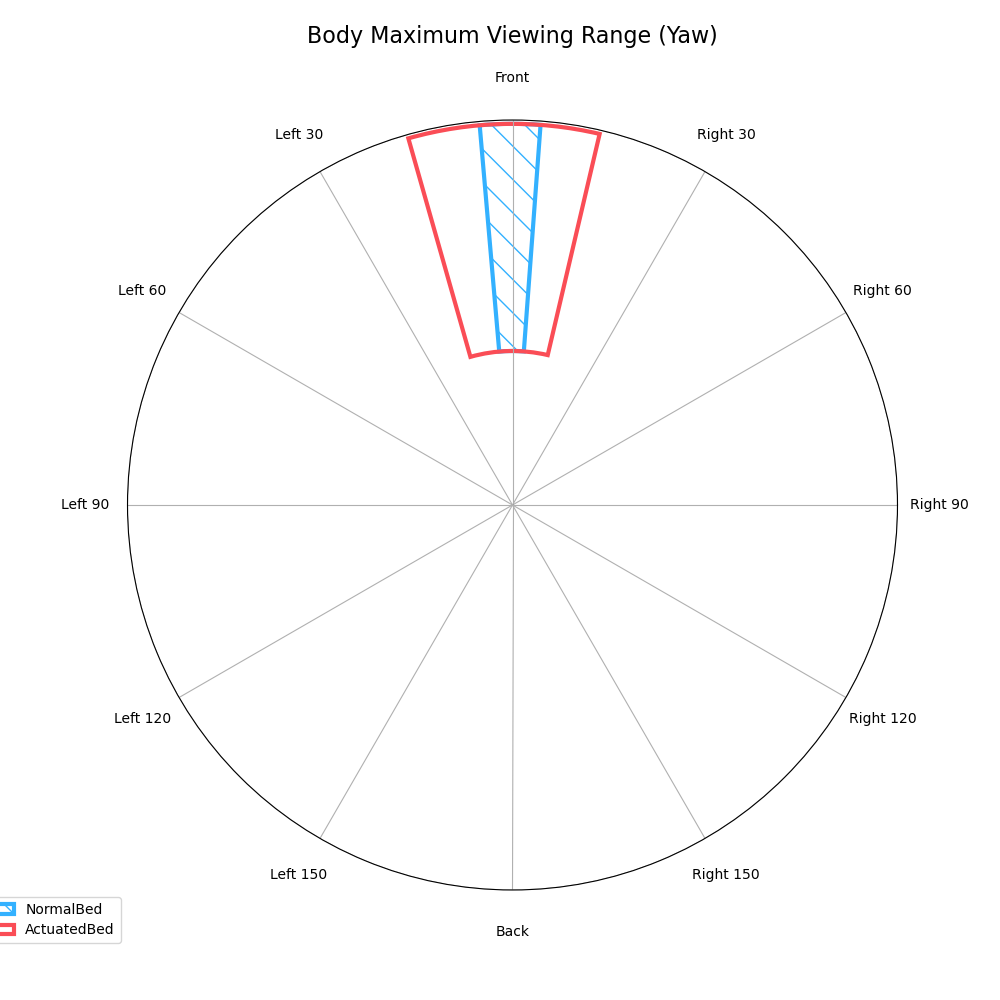
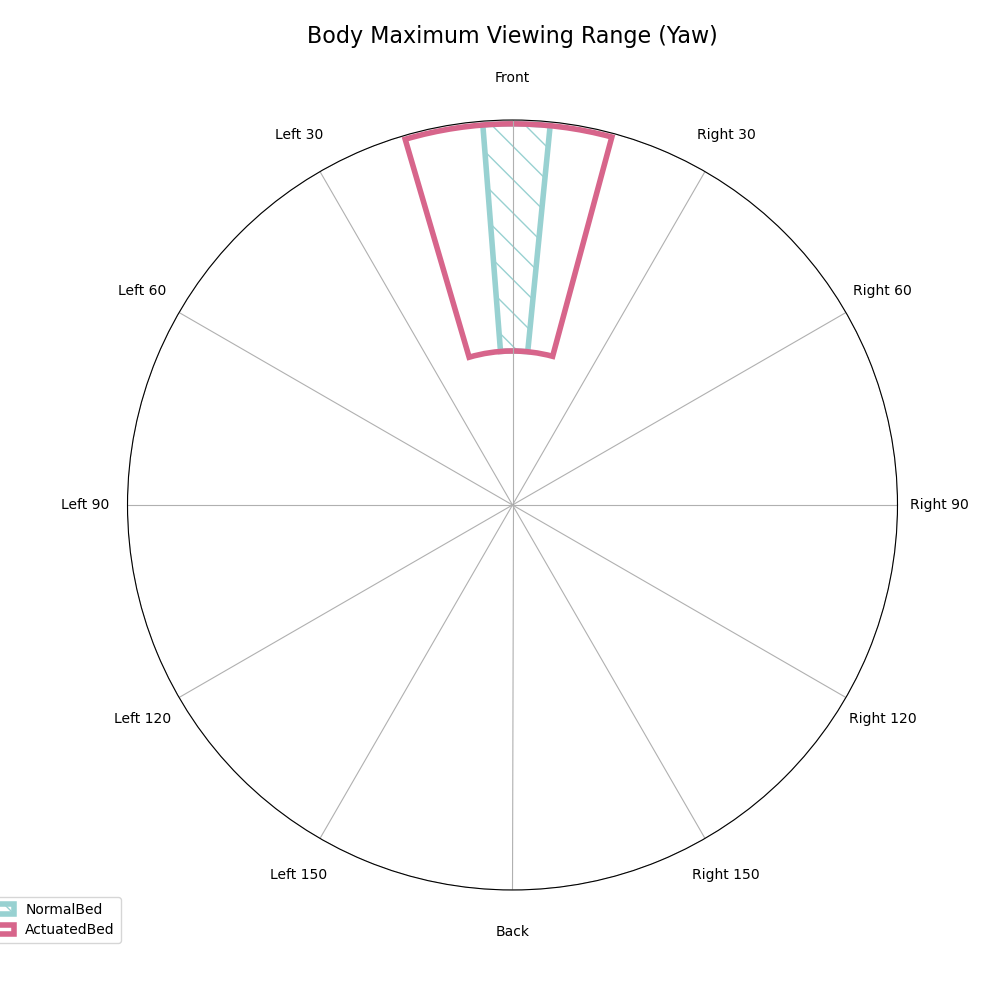
N=16, change color

Changed region(s): [[0.403, 0.124, 0.62, 0.372], [0.0, 0.899, 0.031, 0.961]]

diff --git a/Summative/Freeplay_DrawLikert.py b/Summative/Freeplay_DrawLikert.py
@@ -40,9 +40,9 @@ for i, condition in enumerate(Conditions):
     data = np.array(list(ComfortData[condition].values()))
     data_cum = data.cumsum(axis=1)
 
-    axes[i].set_title(condition, color=Colors[i][2])
-    axes[i].set_xlim(0, 10)
-    axes[i].set_xticks([0, 2, 4, 6, 8, 10])
+    axes[i].set_title(condition, color=LikertColors[i][2])
+    axes[i].set_xlim(0, 14)
+    axes[i].set_xticks([0, 2, 4, 6, 8, 10, 12, 14])
 
     for j in range(0, len(Points)):
         widths = data[:, j]
@@ -53,7 +53,7 @@ for i, condition in enumerate(Conditions):
             left=starts,
             align="center",
             height=0.4,
-            color=Colors[i][j],
+            color=LikertColors[i][j],
         )
         # axes[i].bar_label(rects, label_type="center")
 
@@ -63,7 +63,7 @@ axes[0].set_yticklabels(Applications)
 axes[0].yaxis.tick_left()
 axes[0].tick_params(axis="y")
 
-plt.ylim(-1, 2)
+plt.ylim(-1, 3)
 plt.subplots_adjust(wspace=0, top=0.85, bottom=0.1, left=0.18, right=0.95)
 plt.suptitle("Comfort", fontsize=16, fontweight="bold")
 
@@ -99,9 +99,9 @@ for i, condition in enumerate(Conditions):
     data = np.array(list(PreferenceData[condition].values()))
     data_cum = data.cumsum(axis=1)
 
-    axes[i].set_title(condition, color=Colors[i][2])
-    axes[i].set_xlim(0, 10)
-    axes[i].set_xticks([0, 2, 4, 6, 8, 10])
+    axes[i].set_title(condition, color=LikertColors[i][2])
+    axes[i].set_xlim(0, 14)
+    axes[i].set_xticks([0, 2, 4, 6, 8, 10, 12, 14])
 
     for j in range(0, len(Points)):
         widths = data[:, j]
@@ -112,7 +112,7 @@ for i, condition in enumerate(Conditions):
             left=starts,
             align="center",
             height=0.4,
-            color=Colors[i][j],
+            color=LikertColors[i][j],
         )
         # axes[i].bar_label(rects, label_type="center")
 

diff --git a/Summative/Formative_DrawMetrics.py b/Summative/Formative_DrawMetrics.py
@@ -108,25 +108,25 @@ def DrawRadarChart(
             ax.errorbar(
                 angles,
                 values,
-                color=Colors[i][2],
+                color=Colors[i][1],
                 linewidth=2,
                 linestyle="solid",
                 label=group,
                 yerr=std_values,
-                ecolor=Colors[i][2],
+                ecolor=Colors[i][1],
                 capsize=5,
             )
         else:
             ax.plot(
                 angles,
                 values,
-                color=Colors[i][2],
+                color=Colors[i][1],
                 linewidth=2,
                 linestyle="solid",
                 label=group,
             )
 
-        ax.fill(angles, values, color=Colors[i][2], alpha=0.1)
+        ax.fill(angles, values, color=Colors[i][1], alpha=0.1)
         if annotate:
             for a, v in zip(angles, values):
                 ax.annotate(

diff --git a/Summative/Formative_DrawRangeFig.py b/Summative/Formative_DrawRangeFig.py
@@ -112,6 +112,7 @@ def DrawRangeRadarChart(FigureTitle, FigurePath, LeftData, RightData, Type):
     begin = pi / 2 if Type == "LR" else 0
     bottom = 4
     hatches = ["\\", None]
+    linewidths = [5, 5]
 
     for i, group in enumerate(Conditions):
         leftValue = LeftData[group] / 180 * pi
@@ -122,8 +123,8 @@ def DrawRangeRadarChart(FigureTitle, FigurePath, LeftData, RightData, Type):
             height=(10 - bottom - 0.1),
             width=(leftValue + rightValue),
             bottom=bottom,
-            edgecolor=Colors[i][2],
-            linewidth=3,
+            edgecolor=Colors[i][1],
+            linewidth=4,
             linestyle="solid",
             fill=False,
             label=group,

diff --git a/Summative/Constant.py b/Summative/Constant.py
@@ -1,12 +1,13 @@
 RootDir = "./Summative"
 
 Participants = list(range(1, 16 + 1))
-Conditions = ["ActuatedBed", "NormalBed"]
+Conditions = ["NormalBed", "ActuatedBed"]
 Directions = ["Right", "Up", "Left", "Down"]
 Applications = ["Ecosphere", "Archery"]
 Points = list(range(1, 5 + 1))
 EcosphereClips = ["EcosphereBorneo", "EcosphereRajaAmpat"]
-Colors = [
+Colors = [["#54bebe", "#98d1d1"], ["#c80064", "#d7658b"]]
+LikertColors = [
     ["#e5f6ff", "#82cfff", "#33b1ff", "#0072c3", "#003a6d"],
     ["#ffd7d9", "#ff8389", "#fa4d56", "#da1e28", "#750e13"],
 ]

diff --git a/Summative/Freeplay_DrawMetrics.py b/Summative/Freeplay_DrawMetrics.py
@@ -78,7 +78,7 @@ def DrawBarChart(FigureTitle, Data, ErrorData, yLimit):
             x + offset[i],
             data,
             width,
-            color=Colors[i][2],
+            color=Colors[i][1],
             label=group,
             yerr=std_data,
             capsize=3,
